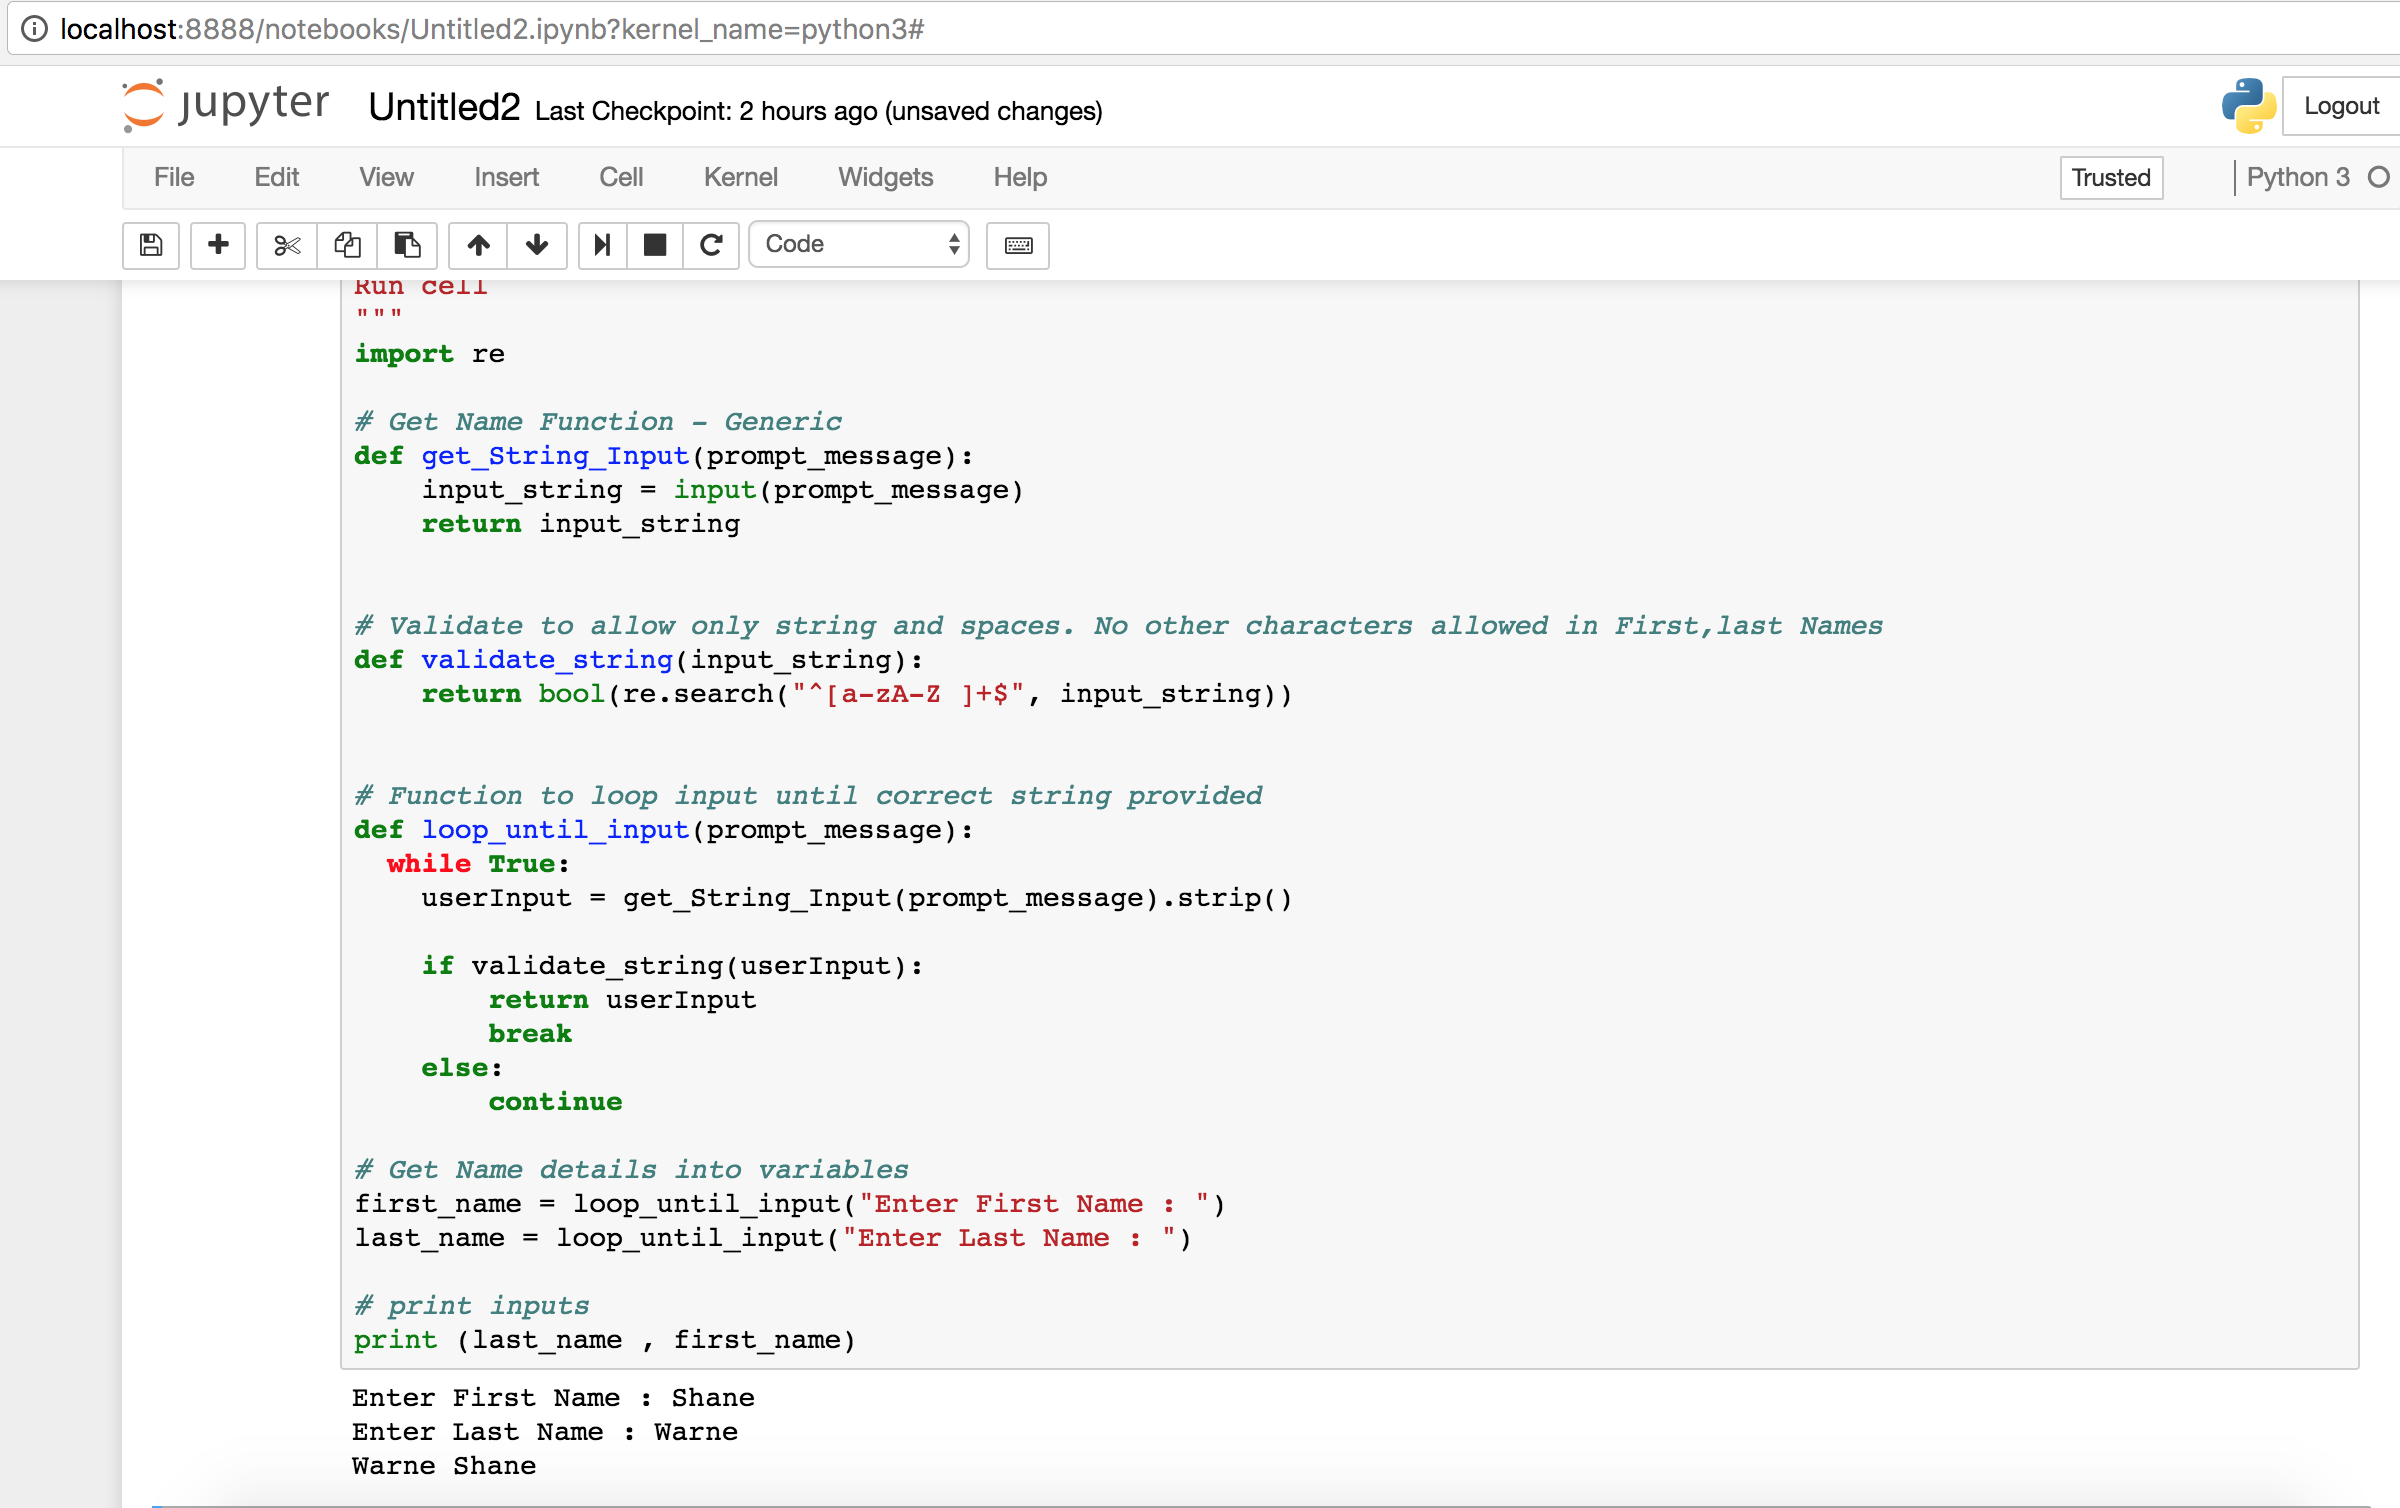
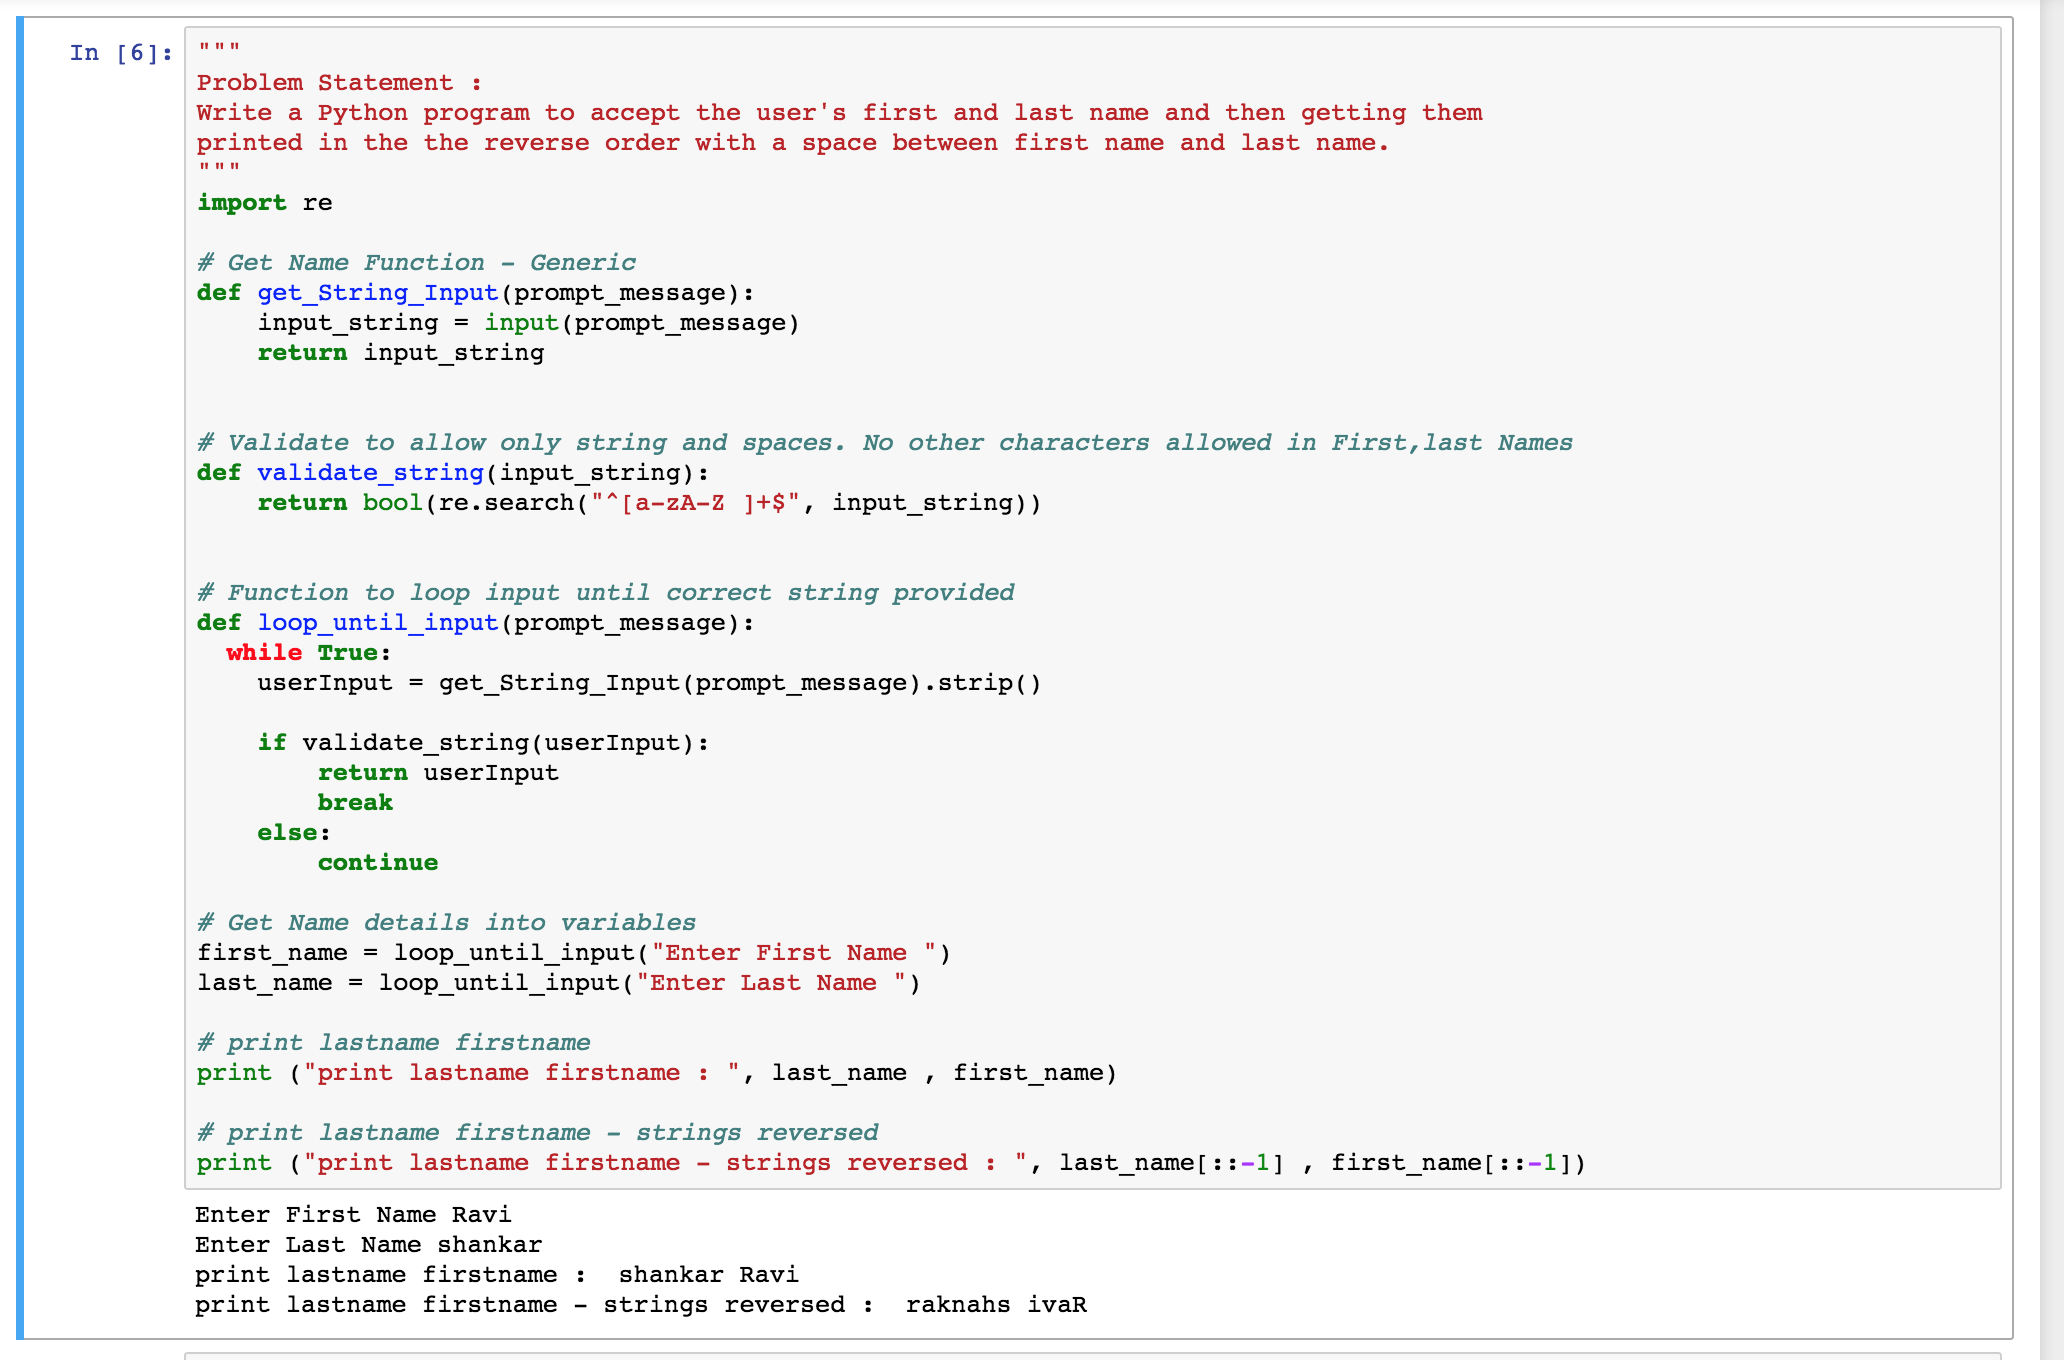
Finished output - Formatted

diff --git a/get_input_names.py b/get_input_names.py
@@ -31,5 +31,8 @@ def loop_until_input(prompt_message):
 first_name = loop_until_input("Enter First Name ")
 last_name = loop_until_input("Enter Last Name ")
 
-# print inputs 
-print (last_name , first_name)
+# print lastname firstname 
+print ("print lastname firstname : ", last_name , first_name)
+
+# print lastname firstname - strings reversed
+print ("print lastname firstname - strings reversed : ", last_name[::-1] , first_name[::-1])
